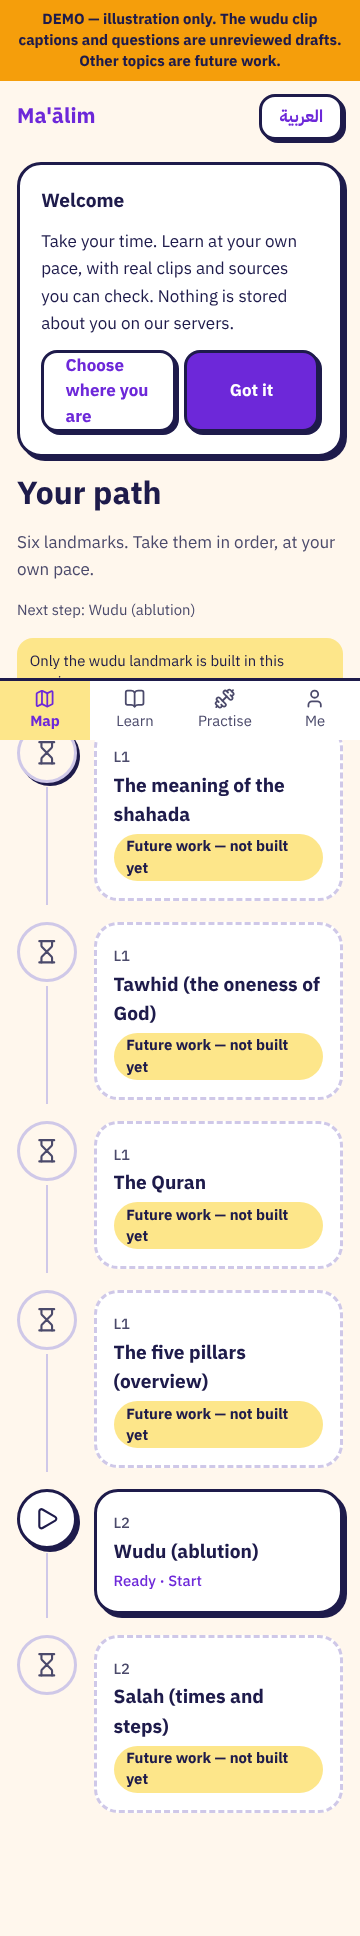
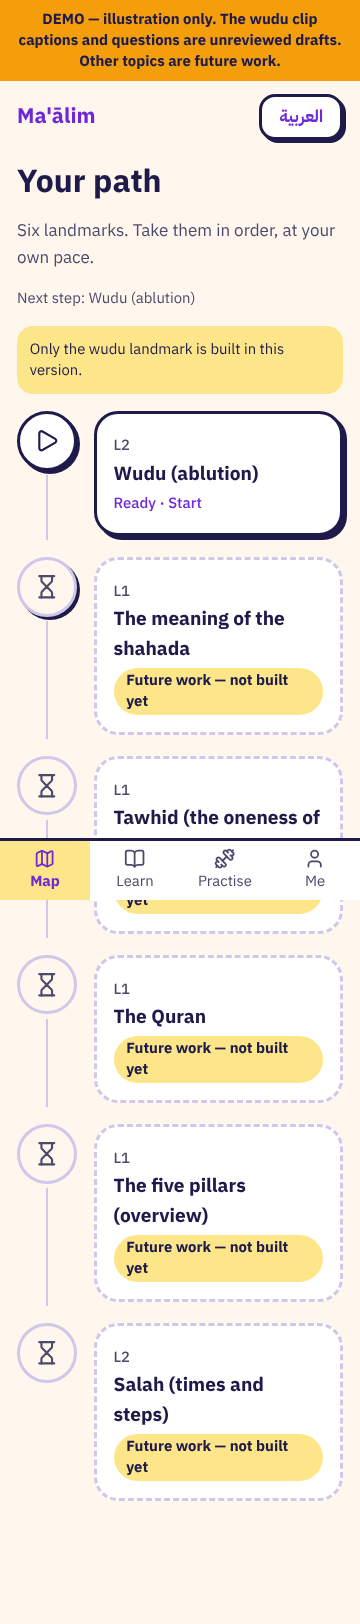
Map: wudu first, future-work topics not clickable
Claude-Session: https://claude.ai/code/session_01TPAKqf2Zu7H6LoPFSVHLwR

diff --git a/components/concept-path.tsx b/components/concept-path.tsx
@@ -8,6 +8,19 @@ import { useProgress } from "@/lib/progress-client";
 import { cn } from "@/lib/utils";
 import type { Concept, Lang } from "@/lib/types";
 
+/** A link for built landmarks; a plain, non-interactive card for future work. */
+function Wrapper({ href, className, children, ...rest }: { href?: string; className?: string; children: React.ReactNode; "data-status"?: string }) {
+  return href ? (
+    <Link href={href} className={className} {...rest}>
+      {children}
+    </Link>
+  ) : (
+    <div className={className} {...rest}>
+      {children}
+    </div>
+  );
+}
+
 const ICON = { locked: Lock, available: Play, in_progress: Play, done: Check } as const;
 
 /** Vertical path of landmarks (F1). Locked landmarks stay tappable: the unit shows a calm "builds on" note. */
@@ -16,7 +29,7 @@ export function ConceptPath({ concepts }: { concepts: Concept[] }) {
   const locale = useLocale() as Lang;
   const { state } = useProgress();
   const name = (c: Concept) => (locale === "ar" ? c.title_ar : c.title_en);
-  const ordered = [...concepts].sort((a, b) => a.order - b.order);
+  const ordered = [...concepts].sort((a, b) => Number(a.availability === "future") - Number(b.availability === "future") || a.order - b.order);
   const byId = new Map(concepts.map((c) => [c.id, c]));
   const next = recommend(concepts, state).primary;
   const hasFuture = concepts.some((c) => c.availability === "future");
@@ -54,9 +67,9 @@ export function ConceptPath({ concepts }: { concepts: Concept[] }) {
                 </span>
                 {idx < ordered.length - 1 ? <span aria-hidden className="mt-1 w-0.5 flex-1 bg-line" /> : null}
               </div>
-              <Link
-                href={`/learn/${c.id}`}
-                data-status={status}
+              <Wrapper
+                href={future ? undefined : `/learn/${c.id}`}
+                data-status={future ? "future" : status}
                 className={cn(
                   "mb-1 block min-h-11 flex-1 rounded-[var(--radius-card)] border-[3px] bg-surface p-4",
                   future ? "border-dashed border-line" : status === "locked" ? "border-line" : "border-outline shadow-hard",
@@ -76,7 +89,7 @@ export function ConceptPath({ concepts }: { concepts: Concept[] }) {
                     {t("after", { list: prereqText })}
                   </span>
                 ) : null}
-              </Link>
+              </Wrapper>
             </li>
           );
         })}

diff --git a/components/learn-home.tsx b/components/learn-home.tsx
@@ -44,14 +44,21 @@ export function LearnHome({ concepts, locale }: { concepts: Concept[]; locale: L
       <div className="space-y-2">
         <h2 className="text-lg font-bold">{t("all")}</h2>
         <ul className="space-y-2">
-          {[...concepts].sort((a, b) => a.order - b.order).map((c) => (
-            <li key={c.id}>
-              <Link href={`/learn/${c.id}`} className="flex min-h-11 items-center justify-between rounded-[var(--radius-btn)] border-[3px] border-outline bg-surface px-4 py-2">
+          {[...concepts].sort((a, b) => Number(a.availability === "future") - Number(b.availability === "future") || a.order - b.order).map((c) =>
+            c.availability === "future" ? (
+              <li key={c.id} className="flex min-h-11 items-center justify-between rounded-[var(--radius-btn)] border-[3px] border-dashed border-line bg-bg px-4 py-2 text-muted">
                 <span>{name(c)}</span>
-                <span className="text-sm text-muted">{c.availability === "future" ? m("futureShort") : m(`status.${conceptStatus(c, state)}`)}</span>
-              </Link>
-            </li>
-          ))}
+                <span className="text-sm font-bold">{m("futureShort")}</span>
+              </li>
+            ) : (
+              <li key={c.id}>
+                <Link href={`/learn/${c.id}`} className="flex min-h-11 items-center justify-between rounded-[var(--radius-btn)] border-[3px] border-outline bg-surface px-4 py-2">
+                  <span>{name(c)}</span>
+                  <span className="text-sm text-muted">{m(`status.${conceptStatus(c, state)}`)}</span>
+                </Link>
+              </li>
+            ),
+          )}
         </ul>
       </div>
     </div>

diff --git a/app/(app)/learn/[concept]/page.tsx b/app/(app)/learn/[concept]/page.tsx
@@ -63,7 +63,7 @@ export default async function UnitPage({ params }: { params: Promise<{ concept: 
 
   const ordered = [...curriculum.concepts].sort((a, b) => a.order - b.order);
   const idx = ordered.findIndex((c) => c.id === id);
-  const nextC = ordered[idx + 1] ?? null;
+  const nextC = ordered.slice(idx + 1).find((c) => c.availability !== "future") ?? null;
 
   return (
     <>

diff --git a/STATUS.md b/STATUS.md
@@ -162,3 +162,7 @@ Each phase ends with lint + typecheck + tests, a commit, a push, and a STATUS up
 - **Reviewer pack:** `review/WUDU_REVIEW.pdf` (`npm run review:wudu`): 15 verbatim candidate hadith to tick, clip steps/timestamps, the questions, every draft caption line with a correction column, and a permission/sign-off block.
 - **Bug fixed:** the e2e teardown deleted the whole `public/videos/captions/` folder, which silently removed the real captions from my previous commit. Captions restored; teardown now removes only its own files.
 - **To go live:** Vercel → Environment Variables: `DEMO_CONTENT=1`, `ADMIN_TOKEN`, `MENTOR_TOKEN`; redeploy. Screens: `design/screens/demo/`.
+
+## Update 2026-10-06 (8): map order
+- Wudu is the first landmark; future-work topics follow it as plain, non-clickable dashed cards (map and /learn list). The unit's "next landmark" skips future topics. `/learn/<future>` still shows the Future-work page if opened by URL.
+- The Sharia reviewer reported (verbally, via the owner) that the wudu demo is good. **Not recorded in the repo**: no reviewer name or sign-off scope was given, so nothing was marked verified and the caption `NOTE DRAFT` markers stay (they only show in DEMO mode).
